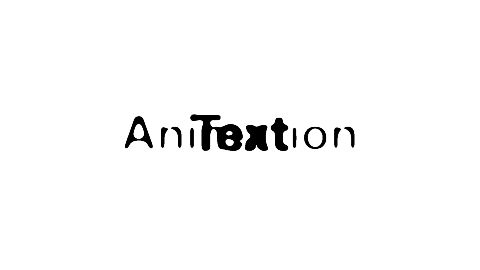
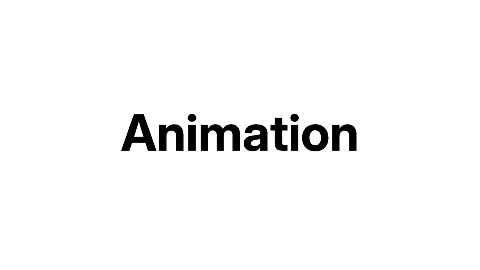
Add Animata text loops, fix meteors and poster
Port glitch and jitter text from Animata (MIT). Meteors apply the
angle twice, as upstream does through the rotate property and the
keyframe, and the tail no longer hides behind the stage. Morphing
text previews at a held word.

Claude-Session: https://claude.ai/code/session_012nceNqdP58ttcTk7nYCqwm

Changed region(s): [[0.25, 0.4148, 0.75, 0.563]]

diff --git a/packages/motion-core/src/motion/uiloops/ports/animata-glitch-text.ts b/packages/motion-core/src/motion/uiloops/ports/animata-glitch-text.ts
@@ -1,0 +1,55 @@
+import { PropFormat } from '../../custom/component';
+import { SnapcnCategory, type SnapcnPort } from '../../snapcn/model';
+
+export const PORT: SnapcnPort = {
+  id: 'animata-glitch-text',
+  title: 'Glitch text',
+  about: 'Text with magenta and cyan ghosts that jolt apart in a short glitch burst, then settle.',
+  category: SnapcnCategory.Text,
+  width: 1280,
+  height: 720,
+  fps: 30,
+  frames: 150,
+  background: '#0a0a0b',
+  fonts: ['Inter'],
+  props: {
+    text: { type: 'string', title: 'Text', default: 'Glitch', group: 'Content', maxLength: 60 },
+    intensity: { type: 'number', title: 'Intensity', default: 5, minimum: 1, maximum: 20, step: 1, group: 'Motion' },
+    step: { type: 'number', title: 'Step (em)', default: 0.01, minimum: 0.002, maximum: 0.05, step: 0.002, group: 'Motion' },
+    duration: { type: 'number', title: 'Duration (s)', default: 2.5, minimum: 0.5, maximum: 10, step: 0.1, group: 'Motion' },
+    baseColor: { type: 'string', title: 'Text colour', format: PropFormat.Color, default: '#fafafa', group: 'Style' },
+    colorA: { type: 'string', title: 'Ghost colour A', format: PropFormat.Color, default: '#ff00ff', group: 'Style' },
+    colorB: { type: 'string', title: 'Ghost colour B', format: PropFormat.Color, default: '#00ffff', group: 'Style' },
+    fontSize: { type: 'number', title: 'Font size', default: 220, minimum: 20, maximum: 400, step: 1, group: 'Style' },
+    fontFamily: { type: 'string', title: 'Font', format: PropFormat.Font, default: 'Inter', group: 'Style' }
+  },
+  draw: (S, view) => {
+    const p = view.props;
+    const CSS_EASE = S.Easing.bezier(0.25, 0.1, 0.25, 1);
+    const intensity = Number(p.intensity);
+    const step = Number(p.step);
+    const y = Math.max(step, intensity * step * 0.35);
+    const x = intensity * step;
+    const x1 = (intensity - 1) * step;
+    const x2 = (intensity - 2) * step;
+    const A = { at: [0, 0.88, 0.9, 0.92, 0.94, 0.96, 1], x: [0, 0, -x, x1, -x2, x, 0], y: [0, 0, -y, y, 0, -y, 0], o: [0.85, 0.85, 1, 0.9, 1, 0.85, 0.85] };
+    const B = { at: [0, 0.86, 0.88, 0.91, 0.93, 0.95, 1], x: [0, 0, x, -x, x1, -x2, 0], y: [0, 0, y, -y, 0, y, 0], o: [0.85, 0.85, 1, 0.9, 1, 0.85, 0.85] };
+    const face = { fontWeight: 800, fontSize: Number(p.fontSize), fontFamily: S.pick(p.fontFamily, 'Inter'), gridArea: '1 / 1', whiteSpace: 'nowrap' } as const;
+    const ghostA = S.h('span', { style: { ...face, color: String(p.colorA), mixBlendMode: 'screen' } }, String(p.text)) as HTMLElement;
+    const ghostB = S.h('span', { style: { ...face, color: String(p.colorB), mixBlendMode: 'screen' } }, String(p.text)) as HTMLElement;
+    const base = S.h('span', { style: { ...face, position: 'relative', zIndex: 2, color: String(p.baseColor) } }, String(p.text));
+    view.root.replaceChildren(S.fill({ alignItems: 'center', justifyContent: 'center' }, S.h('span', { style: { position: 'relative', display: 'inline-grid' } }, ghostA, ghostB, base)));
+
+    const put = (el: HTMLElement, track: typeof A, phase: number) => {
+      const at = (values: number[]) => S.interpolate(phase, track.at, values, { easing: CSS_EASE });
+      el.style.transform = `translate(${at(track.x)}em, ${at(track.y)}em)`;
+      el.style.opacity = String(at(track.o));
+    };
+
+    return (frame) => {
+      const phase = S.cycle(frame, view.fps, Number(p.duration));
+      put(ghostA, A, phase);
+      put(ghostB, B, phase);
+    };
+  }
+};

diff --git a/packages/motion-core/src/motion/uiloops/timing.test.ts b/packages/motion-core/src/motion/uiloops/timing.test.ts
@@ -59,10 +59,10 @@ describe('css keyframes and framer springs, reproduced numerically', () => {
     expect(copy.style.transform).toBe('translateX(calc(-25% - 4px))');
   });
 
-  it('meteors travel along their angle and fade after 70 percent', () => {
+  it('meteors travel along an axis turned twice by the angle, as the rotate property and the keyframe both apply it', () => {
     const port = portOf('magicui-meteors');
     const [head] = [...playAt(port, { ...defaultsOf(port), number: 1, minDelay: 0, maxDelay: 0, minDuration: 10, maxDuration: 10, scale: 1 }, [150]).querySelectorAll('span')] as HTMLElement[];
-    expect(head.style.transform).toContain('rotate(-215deg)');
+    expect(head.style.transform).toContain('rotate(-430deg)');
     expect(head.style.transform).toContain('translateX(-250px)');
   });
 
@@ -100,5 +100,33 @@ describe('css keyframes and framer springs, reproduced numerically', () => {
     expect(shown(0)).toBe(1);
     expect(shown(31)).toBe(2);
     expect(shown(100)).toBe(4);
+  });
+
+  it('jitter text starts on the first keyframe, ends the burst at rest and holds', () => {
+    const port = portOf('animata-jitter-text');
+    const props = { ...defaultsOf(port), scale: 1 };
+    const label = (frame: number) => playAt(port, props, [frame]).querySelector('span') as HTMLElement;
+    expect(label(0).style.transform).toBe('translate(0px, 1.5px) rotate(0.5deg)');
+    expect(label(18).style.transform).toBe('translate(0px, 0px) rotate(0deg)');
+    expect(label(25).style.transform).toBe('translate(0px, 0px) rotate(0deg)');
+  });
+
+  it('jitter text plays its burst backwards on the next lap', () => {
+    const port = portOf('animata-jitter-text');
+    const props = { ...defaultsOf(port), scale: 1 };
+    const label = (frame: number) => playAt(port, props, [frame]).querySelector('span') as HTMLElement;
+    expect(label(33).style.transform).toBe('translate(0px, 0px) rotate(0deg)');
+    expect(label(51).style.transform).toBe('translate(0px, 1.5px) rotate(0.5deg)');
+  });
+
+  it('glitch text rests until 86 percent of the loop, then jolts the ghosts apart', () => {
+    const port = portOf('animata-glitch-text');
+    const props = { ...defaultsOf(port), duration: 3 };
+    const ghosts = (frame: number) => [...playAt(port, props, [frame]).querySelectorAll('span > span')] as HTMLElement[];
+    expect(ghosts(0)[0].style.transform).toBe('translate(0em, 0em)');
+    const [a] = ghosts(81);
+    expect(a.style.opacity).toBe('1');
+    expect(numbers(a.style.transform)[0]).toBeCloseTo(-0.05, 6);
+    expect(numbers(a.style.transform)[1]).toBeCloseTo(-0.0175, 6);
   });
 });

diff --git a/packages/motion-core/src/motion/uiloops/ports/animata-jitter-text.ts b/packages/motion-core/src/motion/uiloops/ports/animata-jitter-text.ts
@@ -1,0 +1,47 @@
+import { PropFormat } from '../../custom/component';
+import { SnapcnCategory, type SnapcnPort } from '../../snapcn/model';
+
+export const PORT: SnapcnPort = {
+  id: 'animata-jitter-text',
+  title: 'Jitter text',
+  about: 'Text trembles through a short burst of tiny shifts and tilts, rests, then trembles back.',
+  category: SnapcnCategory.Text,
+  width: 1280,
+  height: 720,
+  fps: 30,
+  frames: 150,
+  background: '#ffffff',
+  fonts: ['Inter'],
+  props: {
+    text: { type: 'string', title: 'Text', default: 'Jitter', group: 'Content', maxLength: 60 },
+    duration: { type: 'number', title: 'Burst duration (s)', default: 0.6, minimum: 0.1, maximum: 5, step: 0.1, group: 'Motion' },
+    repeatDelay: { type: 'number', title: 'Rest between bursts (s)', default: 0.5, minimum: 0, maximum: 5, step: 0.1, group: 'Motion' },
+    scale: { type: 'number', title: 'Shift scale (1 = original pixels)', default: 4, minimum: 0.5, maximum: 12, step: 0.5, group: 'Motion' },
+    fontSize: { type: 'number', title: 'Font size', default: 200, minimum: 20, maximum: 400, step: 1, group: 'Style' },
+    textColor: { type: 'string', title: 'Text colour', format: PropFormat.Color, default: '#000000', group: 'Style' },
+    fontFamily: { type: 'string', title: 'Font', format: PropFormat.Font, default: 'Inter', group: 'Style' }
+  },
+  draw: (S, view) => {
+    const p = view.props;
+    const EASE_IN_OUT = S.Easing.bezier(0.42, 0, 0.58, 1);
+    const Y = [1.5, 1, -1, 1.5, -1.5, 1, -0.5, 0];
+    const X = [0, -1, 1.5, -1.5, 1, -1, 0.5, 0];
+    const R = [0.5, -1.5, 1, -1.5, 1, -1, 1, 0];
+    const stops = Y.map((_, i) => i / (Y.length - 1));
+    const burst = Number(p.duration);
+    const rest = Number(p.repeatDelay);
+    const label = S.h('span', { style: { display: 'inline-block', fontWeight: 700, fontSize: Number(p.fontSize), color: String(p.textColor), fontFamily: S.pick(p.fontFamily, 'Inter') } }, String(p.text)) as HTMLElement;
+    view.root.replaceChildren(S.fill({ alignItems: 'center', justifyContent: 'center' }, label));
+
+    return (frame) => {
+      const t = frame / view.fps;
+      const lap = burst + rest;
+      const round = Math.floor(t / lap);
+      const into = Math.min((t - round * lap) / burst, 1);
+      const phase = round % 2 ? 1 - into : into;
+      const at = (values: number[]) => Math.round(S.interpolate(phase, stops, values, { easing: EASE_IN_OUT }) * 1000) / 1000;
+      const k = Number(p.scale);
+      label.style.transform = `translate(${at(X) * k}px, ${at(Y) * k}px) rotate(${at(R) * k}deg)`;
+    };
+  }
+};

diff --git a/packages/motion-core/src/motion/uiloops/ports/magicui-meteors.ts b/packages/motion-core/src/motion/uiloops/ports/magicui-meteors.ts
@@ -35,14 +35,15 @@ export const PORT: SnapcnPort = {
     const hi = Number(p.maxDelay);
     const durLo = Number(p.minDuration);
     const durHi = Number(p.maxDuration);
-    const angle = -Number(p.angle);
+    const ROTATED_TWICE = 2;
+    const angle = -Number(p.angle) * ROTATED_TWICE;
     const color = String(p.color);
 
     const meteors = Array.from({ length: count }, () => {
       const left = Math.floor(next() * view.width);
       const delay = next() * (hi - lo) + lo;
       const duration = Math.floor(next() * (durHi - durLo) + durLo);
-      const head = S.h('span', { style: { position: 'absolute', top: '-5%', left, width: 2 * scale, height: 2 * scale, borderRadius: 9999, background: color, boxShadow: '0 0 0 1px #ffffff10' } }, S.h('div', { style: { position: 'absolute', top: '50%', width: TAIL, height: 1, transform: 'translateY(-50%)', background: `linear-gradient(to right, ${color}, transparent)`, zIndex: -1 } })) as HTMLElement;
+      const head = S.h('span', { style: { position: 'absolute', top: '-5%', left, width: 2 * scale, height: 2 * scale, borderRadius: 9999, background: color, boxShadow: '0 0 0 1px #ffffff10' } }, S.h('div', { style: { position: 'absolute', top: '50%', width: TAIL, height: 1, transform: 'translateY(-50%)', background: `linear-gradient(to right, ${color}, transparent)` } })) as HTMLElement;
       return { head, delay, duration };
     });
 

diff --git a/src/lib/content/changelog/2026-11-11-ui-loops-magicui.ts b/src/lib/content/changelog/2026-11-11-ui-loops-magicui.ts
@@ -3,5 +3,5 @@ import type { ChangelogEntry } from './index';
 export default {
   date: '2026-11-11',
   title: 'Animated backgrounds and text effects',
-  items: ['Twenty animated backgrounds, text effects and card accents (meteors, ripples, marquees, number tickers, typing text, morphing words, glowing borders) are now motion templates, ready to edit.']
+  items: ['Twenty-two animated backgrounds, text effects and card accents (meteors, ripples, marquees, number tickers, typing text, morphing words, glowing borders, glitch text) are now motion templates, ready to edit.']
 } satisfies ChangelogEntry;

diff --git a/scripts/component-previews.ts b/scripts/component-previews.ts
@@ -18,7 +18,7 @@ const PREVIEW_FPS = 12;
 const PREVIEW_FRAMES = 48;
 const MAX_WINDOW_S = 8;
 const POSTER_AT = 0.6;
-const POSTER_BEFORE_TITLE: Record<string, number> = { 'builtin:particle-ribbon': 0.2 };
+const POSTER_BEFORE_TITLE: Record<string, number> = { 'builtin:particle-ribbon': 0.2, 'builtin:magicui-morphing-text': 0.72 };
 const LAYOUT_SAMPLES = join('static', 'compose-templates');
 const LAYOUT_PREFIX = 'builtin:composition-';
 

diff --git a/THIRD_PARTY_NOTICES.md b/THIRD_PARTY_NOTICES.md
@@ -122,3 +122,33 @@ LIABILITY, WHETHER IN AN ACTION OF CONTRACT, TORT OR OTHERWISE, ARISING FROM,
 OUT OF OR IN CONNECTION WITH THE SOFTWARE OR THE USE OR OTHER DEALINGS IN THE
 SOFTWARE.
 ```
+
+## Portions derived from Animata (MIT)
+
+Source: https://github.com/codse/animata (LICENSE.md, commit 25c27e5a874c60a56dcc1609df3b2c4f5f8456f8).
+Glitch text and jitter text are translated from React, Framer Motion and CSS keyframes to feega custom
+components in `packages/motion-core/src/motion/uiloops/ports/`; upstream comments removed, APIs changed.
+
+```
+MIT License
+
+Copyright (c) Animata
+
+Permission is hereby granted, free of charge, to any person obtaining a copy
+of this software and associated documentation files (the "Software"), to deal
+in the Software without restriction, including without limitation the rights
+to use, copy, modify, merge, publish, distribute, sublicense, and/or sell
+copies of the Software, and to permit persons to whom the Software is
+furnished to do so, subject to the following conditions:
+
+The above copyright notice and this permission notice shall be included in all
+copies or substantial portions of the Software.
+
+THE SOFTWARE IS PROVIDED "AS IS", WITHOUT WARRANTY OF ANY KIND, EXPRESS OR
+IMPLIED, INCLUDING BUT NOT LIMITED TO THE WARRANTIES OF MERCHANTABILITY,
+FITNESS FOR A PARTICULAR PURPOSE AND NONINFRINGEMENT. IN NO EVENT SHALL THE
+AUTHORS OR COPYRIGHT HOLDERS BE LIABLE FOR ANY CLAIM, DAMAGES OR OTHER
+LIABILITY, WHETHER IN AN ACTION OF CONTRACT, TORT OR OTHERWISE, ARISING FROM,
+OUT OF OR IN CONNECTION WITH THE SOFTWARE OR THE USE OR OTHER DEALINGS IN THE
+SOFTWARE.
+```

diff --git a/web-docs/src/content/docs/motion/ui-loop-templates.md b/web-docs/src/content/docs/motion/ui-loop-templates.md
@@ -5,7 +5,7 @@ sidebar:
   order: 13
 ---
 
-Twenty components of [Magic UI](https://magicui.design) (MIT) are built-in motion templates: backgrounds
+Twenty components of [Magic UI](https://magicui.design) and two of [Animata](https://animata.design) (glitch and jitter text), both MIT, are built-in motion templates: backgrounds
 (meteors, ripple, flickering grid, animated grid pattern), text effects (typing, morphing text, word rotate,
 number ticker, hyper text, gradient, shiny, aurora and line-shadow text, spinning text) and card accents
 (marquee, orbiting circles, border beam, shine border, animated list, circular progress). Each keeps the
@@ -28,4 +28,4 @@ feega motion ask <nodeId> "add the number ticker counting to 12,000"
 
 ## Licence
 
-Magic UI is MIT, Copyright (c) Magic UI; the notice is in `THIRD_PARTY_NOTICES.md`.
+Magic UI is MIT, Copyright (c) Magic UI; Animata is MIT, Copyright (c) Animata; the notices is in `THIRD_PARTY_NOTICES.md`.

diff --git a/changelog/2026-11-11-ui-loops-magicui.md b/changelog/2026-11-11-ui-loops-magicui.md
@@ -1,8 +1,10 @@
-# Magic UI loops as motion templates
+# Magic UI and Animata loops as motion templates
 
 Twenty MIT components from Magic UI (meteors, ripple, marquee, number ticker, word rotate, typing, morphing text,
 gradient/shiny/aurora/line-shadow text, orbiting circles, spinning text, flickering and animated grids, border
 beam, shine border, animated list, circular progress, hyper text) are builtin templates `builtin:magicui-<id>`.
+
+Animata (MIT, `LICENSE.md`, Copyright (c) Animata) adds glitch text and jitter text as `builtin:animata-*`.
 
 Why: backgrounds, text accents and card effects were the gap in the library next to the snapcn product scenes.
 
